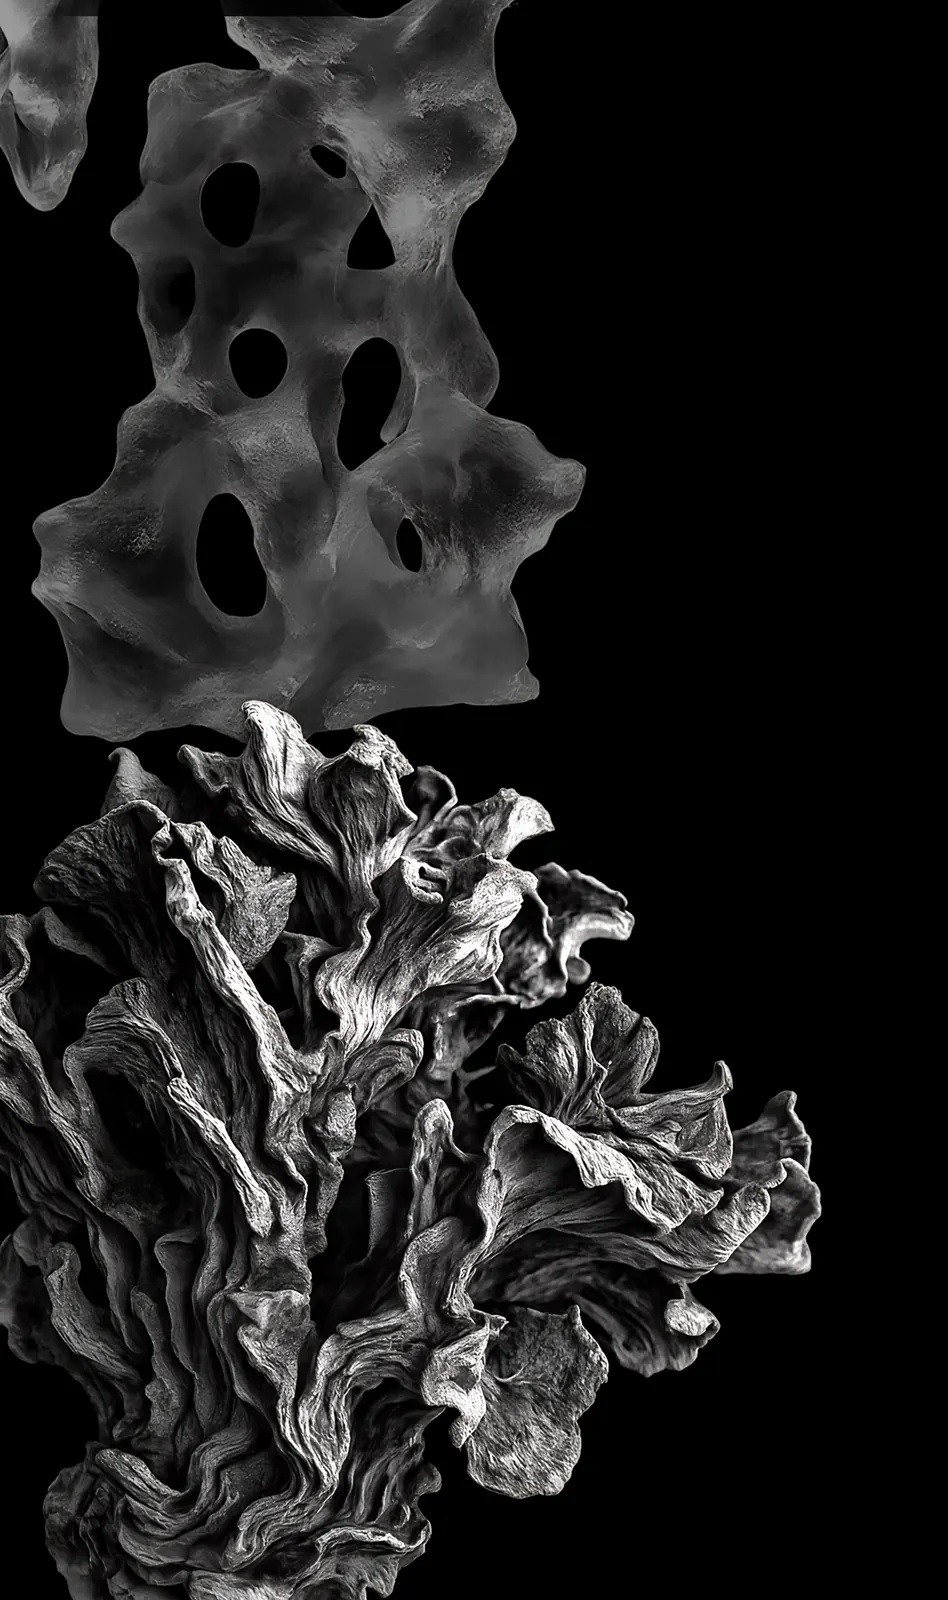
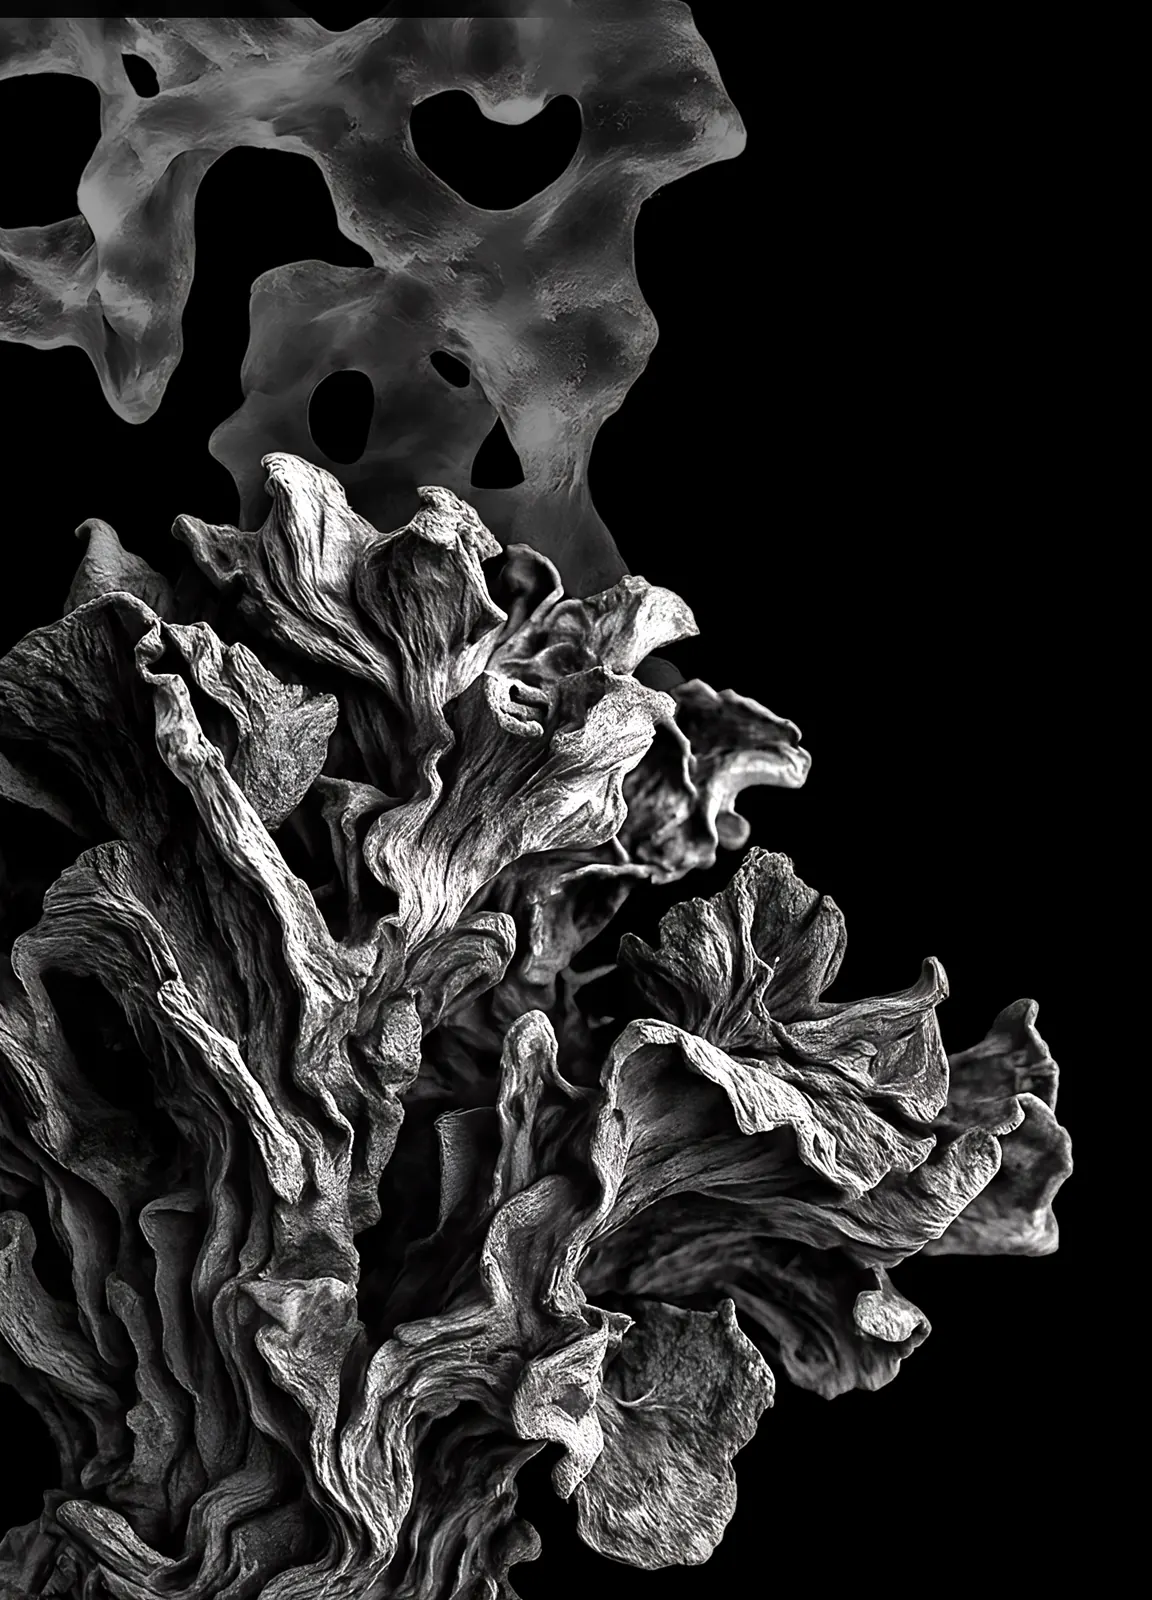
temp: design preview, larger and denser side panels

diff --git a/design.html b/design.html
@@ -8,8 +8,8 @@
 <link rel="stylesheet" href="verify.css?v=36">
 <style>
 .sd { position: absolute; top: 0; height: 100vh; height: 100dvh; width: auto; z-index: 0; pointer-events: none; user-select: none; -webkit-user-drag: none; mix-blend-mode: screen; opacity: .92; }
-.sl { left: 0; -webkit-mask-image: linear-gradient(90deg, #000 62%, transparent 100%); mask-image: linear-gradient(90deg, #000 62%, transparent 100%); }
-.sr { right: 0; -webkit-mask-image: linear-gradient(270deg, #000 62%, transparent 100%); mask-image: linear-gradient(270deg, #000 62%, transparent 100%); }
+.sl { left: 0; -webkit-mask-image: linear-gradient(90deg, #000 66%, transparent 100%); mask-image: linear-gradient(90deg, #000 66%, transparent 100%); }
+.sr { right: 0; -webkit-mask-image: linear-gradient(270deg, #000 66%, transparent 100%); mask-image: linear-gradient(270deg, #000 66%, transparent 100%); }
 .mt { overflow: hidden; }
 .mt-main, .mt-foot { position: relative; z-index: 1; }
 .mt-foot { position: absolute; }
